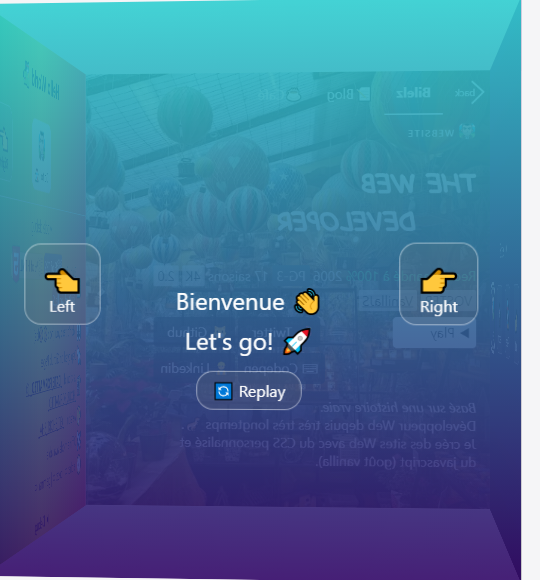
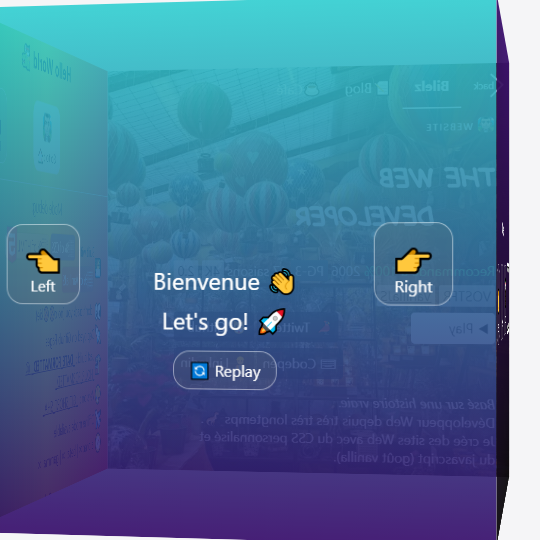
540

diff --git a/js/capture.js b/js/capture.js
@@ -41,7 +41,7 @@ fetch("https://bilelz.blogspot.com/feeds/posts/default?alt=json&max-results=1&ca
               overwrite: true,
               delay: 3.15,
               width: 540,
-              height: 580,
+              height: 540,
               scaleFactor: 1,
             }),
             await captureWebsite.file("index.html", "img/screenshot2.png", {
@@ -49,7 +49,7 @@ fetch("https://bilelz.blogspot.com/feeds/posts/default?alt=json&max-results=1&ca
               overwrite: true,
               delay: 6,
               width: 540,
-              height: 580,
+              height: 540,
               scaleFactor: 1,
             }),
             await captureWebsite.file("index.html", "img/screenshot3.png", {
@@ -57,7 +57,7 @@ fetch("https://bilelz.blogspot.com/feeds/posts/default?alt=json&max-results=1&ca
               overwrite: true,
               delay: 7.25,
               width: 540,
-              height: 580,
+              height: 540,
               scaleFactor: 1,
             }),
             await captureWebsite.file("index.html", "img/preview.png", {
@@ -65,7 +65,7 @@ fetch("https://bilelz.blogspot.com/feeds/posts/default?alt=json&max-results=1&ca
               overwrite: true,
               delay: 10,
               width: 540,
-              height: 580,
+              height: 540,
               scaleFactor: 1,
               hideElements: ["nav.sticky"],
             }),

diff --git a/index.html b/index.html
@@ -32,7 +32,7 @@
     <meta property="og:url" content="https://bilelz.dev/" />
     <meta property="og:image" content="https://bilelz.dev/img/preview.png" />
     <meta property="og:image:width" content="540" />
-    <meta property="og:image:height" content="580" />
+    <meta property="og:image:height" content="540" />
 
     <meta name="twitter:card" content="summary_large_image" />
     <meta name="twitter:site" content="@bilelz" />
